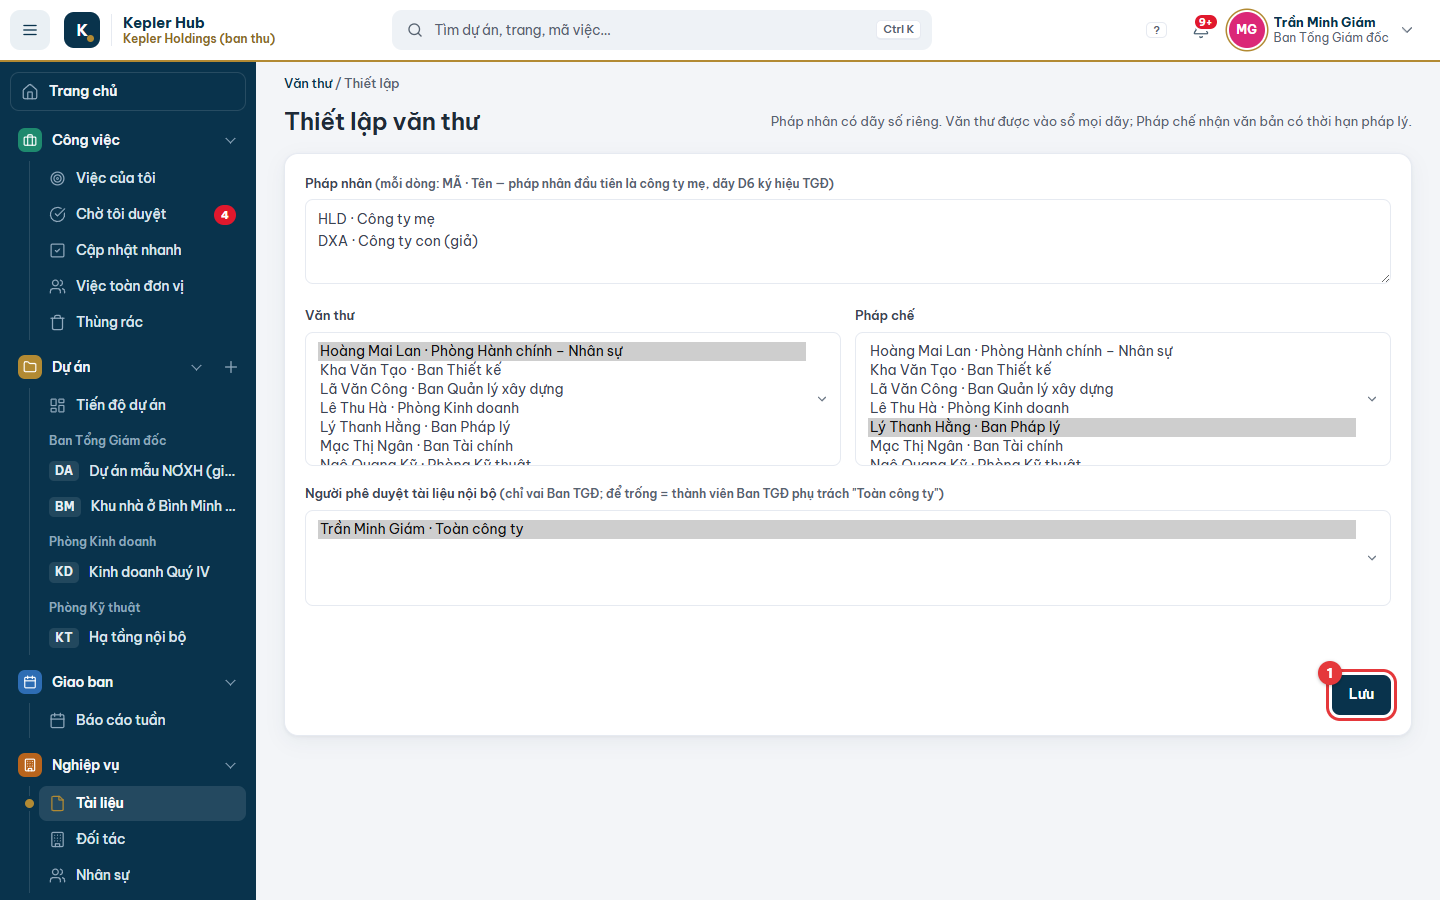
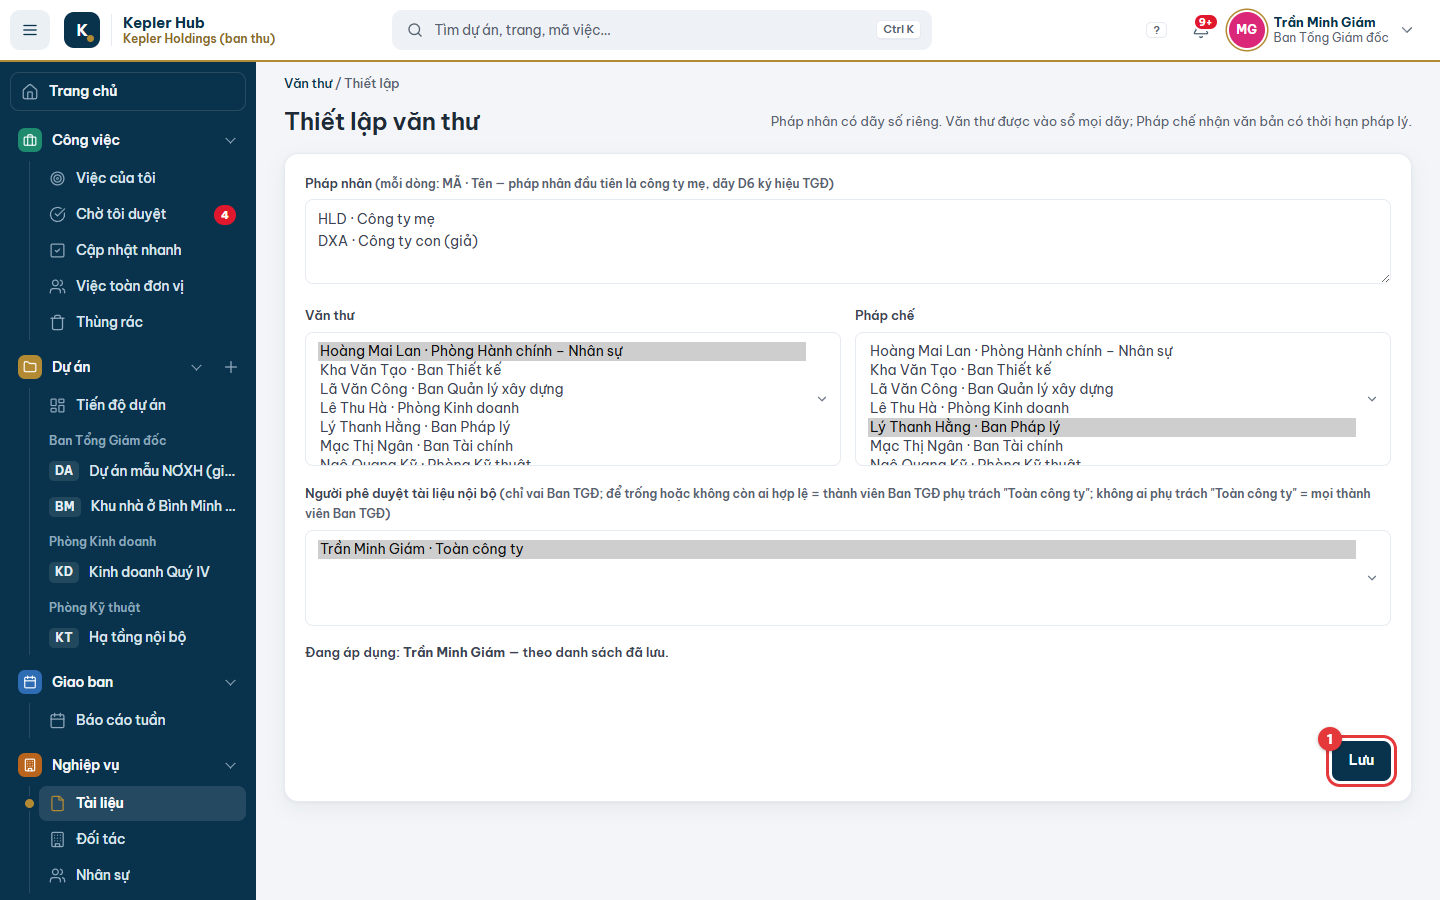
Hướng dẫn sử dụng: chụp lại 18 ảnh còn chữ cũ sau 4 PR sửa lỗi mức Cao (#48–#51)
- #48: trang Kết nối Claude ghi tệp kepler-claude.mcpb (03-trang-ket-noi-claude, 03-cho-phep, 03-da-ket-noi, 30-ca-nhan-ket-noi-claude).
- #49: khối Thiết lập báo cáo tuần có "Lịch tuần …" và ghi chú báo đổi lịch (30-bao-cao-tuan-thiet-lap).
- #50: Thiết lập văn thư có dòng "Đang áp dụng" của Người phê duyệt (30-van-thu-thiet-lap).
- #51: nhãn "Duyệt N cấp" ở đầu trang dự án đếm cả bước người giao (04-du-an-tong-quan, 04-du-an-bang,
  20-ld-tong-quan-du-an, 20-ld-gantt, 20-ld-giao-viec-nut, 20-ld-giao-viec, 30-du-an-menu-khac, 30-mtl-giai-doan);
  hộp Tạo dự án "Cấp duyệt thêm sau người giao" (30-du-an-tao-quy-trinh); Quy trình duyệt, cột trạng thái
  khoá nhóm khi còn việc (30-cai-dat-quy-trinh-duyet, 30-cai-dat-cot-trang-thai, 30-cai-dat-du-an).
- Chú thích 30-du-an-tao-quy-trinh theo tên ô mới.

Chụp trên bản thử kepler-guide dựng lại từ main b2fd248 (dữ liệu giả). Ảnh chỉ lệch dữ liệu thử
(giờ, mã việc, số liệu) mà không đổi giao diện thì giữ bản cũ.

Changed region(s): [[0.2188, 0.5289, 0.9688, 0.6222], [0.2188, 0.7156, 0.9688, 0.8711], [0.2188, 0.7156, 0.4688, 0.7467]]

diff --git a/docs/huong-dan-su-dung/thiet-lap.md b/docs/huong-dan-su-dung/thiet-lap.md
@@ -356,7 +356,7 @@ Các kiêm nhiệm **PMO**, **Thư ký giao ban**, **Phụ trách nhân sự**, 
 
 ![Tạo dự án MTL: chọn kiểu Theo Master Timeline và tháng T0](anh/30-du-an-tao.png)
 
-![Tạo dự án thường: kiểu Quy trình công việc và số cấp duyệt](anh/30-du-an-tao-quy-trinh.png)
+![Tạo dự án thường: kiểu Quy trình công việc và cấp duyệt thêm sau người giao](anh/30-du-an-tao-quy-trinh.png)
 
 **Ai thấy, ai sửa:**
 - **Ban Tổng Giám đốc**: thấy nút **+**; ô **Bộ phận** có mọi bộ phận đang hoạt động; thấy kiểu **Theo Master Timeline** và đây là lựa chọn mặc định.
